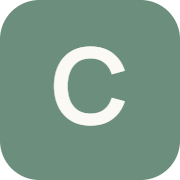
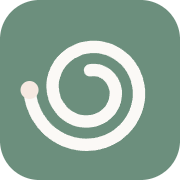
brand: спираль — иконка сайта и знак в шапке (единый стиль с ботом)

Changed region(s): [[0.1111, 0.2222, 0.8056, 0.8611], [0.5833, 0.6667, 0.6111, 0.6944]]

diff --git a/tools/og-preview.html b/tools/og-preview.html
@@ -87,15 +87,19 @@
   };
   function roundRect(ctx, x, y, w, h, r) { ctx.beginPath(); ctx.moveTo(x + r, y); ctx.arcTo(x + w, y, x + w, y + h, r); ctx.arcTo(x + w, y + h, x, y + h, r); ctx.arcTo(x, y + h, x, y, r); ctx.arcTo(x, y, x + w, y, r); ctx.closePath(); }
 
-  // Иконка в нужном размере.
+  // Иконка сайта: спираль (как у бота) на скруглённом шалфейном квадрате.
+  const SPIRAL = [[320,250],[326,249],[331,249],[337,249],[343,250],[349,250],[355,252],[360,254],[366,257],[372,260],[377,263],[382,267],[387,272],[391,276],[395,282],[399,287],[402,293],[405,300],[408,306],[409,313],[411,320],[412,327],[412,334],[411,342],[410,349],[409,357],[406,364],[404,371],[400,378],[396,385],[392,392],[386,398],[381,403],[374,409],[368,414],[361,418],[353,422],[345,425],[337,428],[329,430],[320,431],[311,432],[302,432],[293,431],[284,430],[275,428],[267,425],[258,421],[250,417],[242,412],[234,406],[227,400],[220,393],[214,385],[208,377],[203,369],[198,360],[194,350],[192,340],[189,330],[188,320],[187,310],[187,299],[188,288],[190,278],[193,267],[197,257],[201,247],[206,238],[212,228],[219,219],[227,211],[235,203],[244,196],[253,189],[264,184],[274,179],[285,174],[296,171],[308,169],[320,167],[332,167],[344,167],[356,168],[368,171],[380,174],[392,178],[404,184],[415,190],[425,197],[435,205],[445,213],[454,223],[462,233],[469,244],[476,256],[481,268],[486,280],[489,293],[492,306],[494,320],[494,334],[494,348],[492,361],[489,375],[485,388],[480,402],[474,414],[467,427],[459,439],[450,450],[440,461],[429,470],[418,480],[405,488],[392,495],[379,501],[365,506],[350,510],[335,513],[320,514],[305,515],[289,514],[274,512],[259,509],[244,504],[229,499],[215,492],[201,484],[188,475],[175,465],[164,454],[153,442],[143,428],[134,415],[126,400],[120,385],[114,370],[110,353],[107,337],[105,320]]; // точки в системе 640×640
   window.renderIcon = async (size) => {
-    await document.fonts.load('700 100px Manrope');
     const c = document.createElement('canvas'); c.width = size; c.height = size;
     const ctx = c.getContext('2d');
-    const s = size / 512;
-    ctx.fillStyle = '#6c8f7d'; roundRect(ctx, 0, 0, size, size, 112 * s); ctx.fill();
-    ctx.fillStyle = '#fbf9f6'; ctx.font = `700 ${300 * s}px Manrope`; ctx.textAlign = 'center'; ctx.textBaseline = 'middle';
-    ctx.fillText('С', size / 2, size / 2 + 12 * s);
+    const s = size / 640;
+    ctx.fillStyle = '#6c8f7d'; roundRect(ctx, 0, 0, size, size, 140 * s); ctx.fill();
+    ctx.strokeStyle = '#fbf9f6'; ctx.lineWidth = 44 * s; ctx.lineCap = 'round'; ctx.lineJoin = 'round';
+    ctx.beginPath();
+    SPIRAL.forEach(([x, y], i) => (i ? ctx.lineTo(x * s, y * s) : ctx.moveTo(x * s, y * s)));
+    ctx.stroke();
+    const [ex, ey] = SPIRAL[SPIRAL.length - 1];
+    ctx.fillStyle = '#f6e9e1'; ctx.beginPath(); ctx.arc(ex * s, ey * s, 32 * s, 0, Math.PI * 2); ctx.fill();
     return c.toDataURL('image/png');
   };
 </script>

diff --git a/frontend/src/components/landing/Header.tsx b/frontend/src/components/landing/Header.tsx
@@ -32,6 +32,7 @@ export function Header({ onStart }: HeaderProps) {
       <div className="container">
         <div className="header__inner">
           <a className="header__logo" href="#top">
+            <img className="header__logo-mark" src="/icon-192.png" alt="" width="36" height="36" />
             <span className="header__logo-text">
               {psychologist.name}
               <small>{psychologist.roleShort}</small>

diff --git a/frontend/src/styles/landing.css b/frontend/src/styles/landing.css
@@ -40,6 +40,13 @@
   letter-spacing: -0.01em;
 }
 
+.header__logo-mark {
+  width: 36px;
+  height: 36px;
+  border-radius: 10px;
+  flex-shrink: 0;
+}
+
 .header__logo-text small {
   display: block;
   font-size: 12px;
